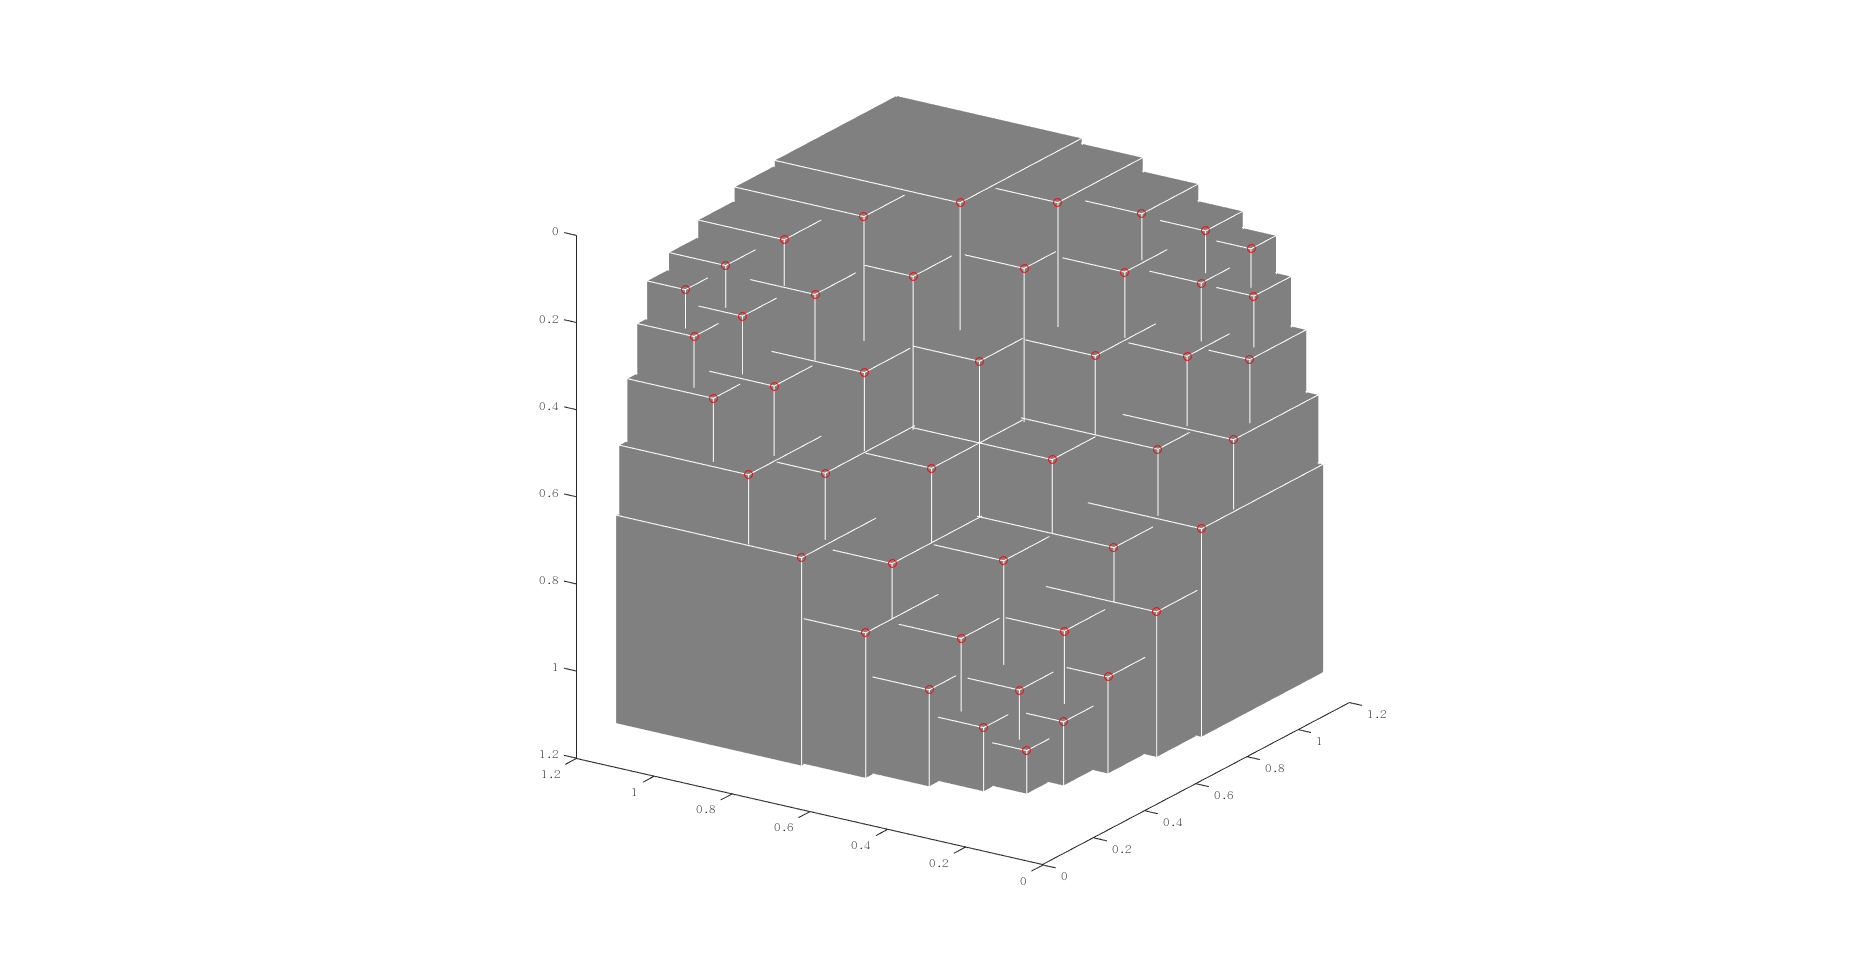
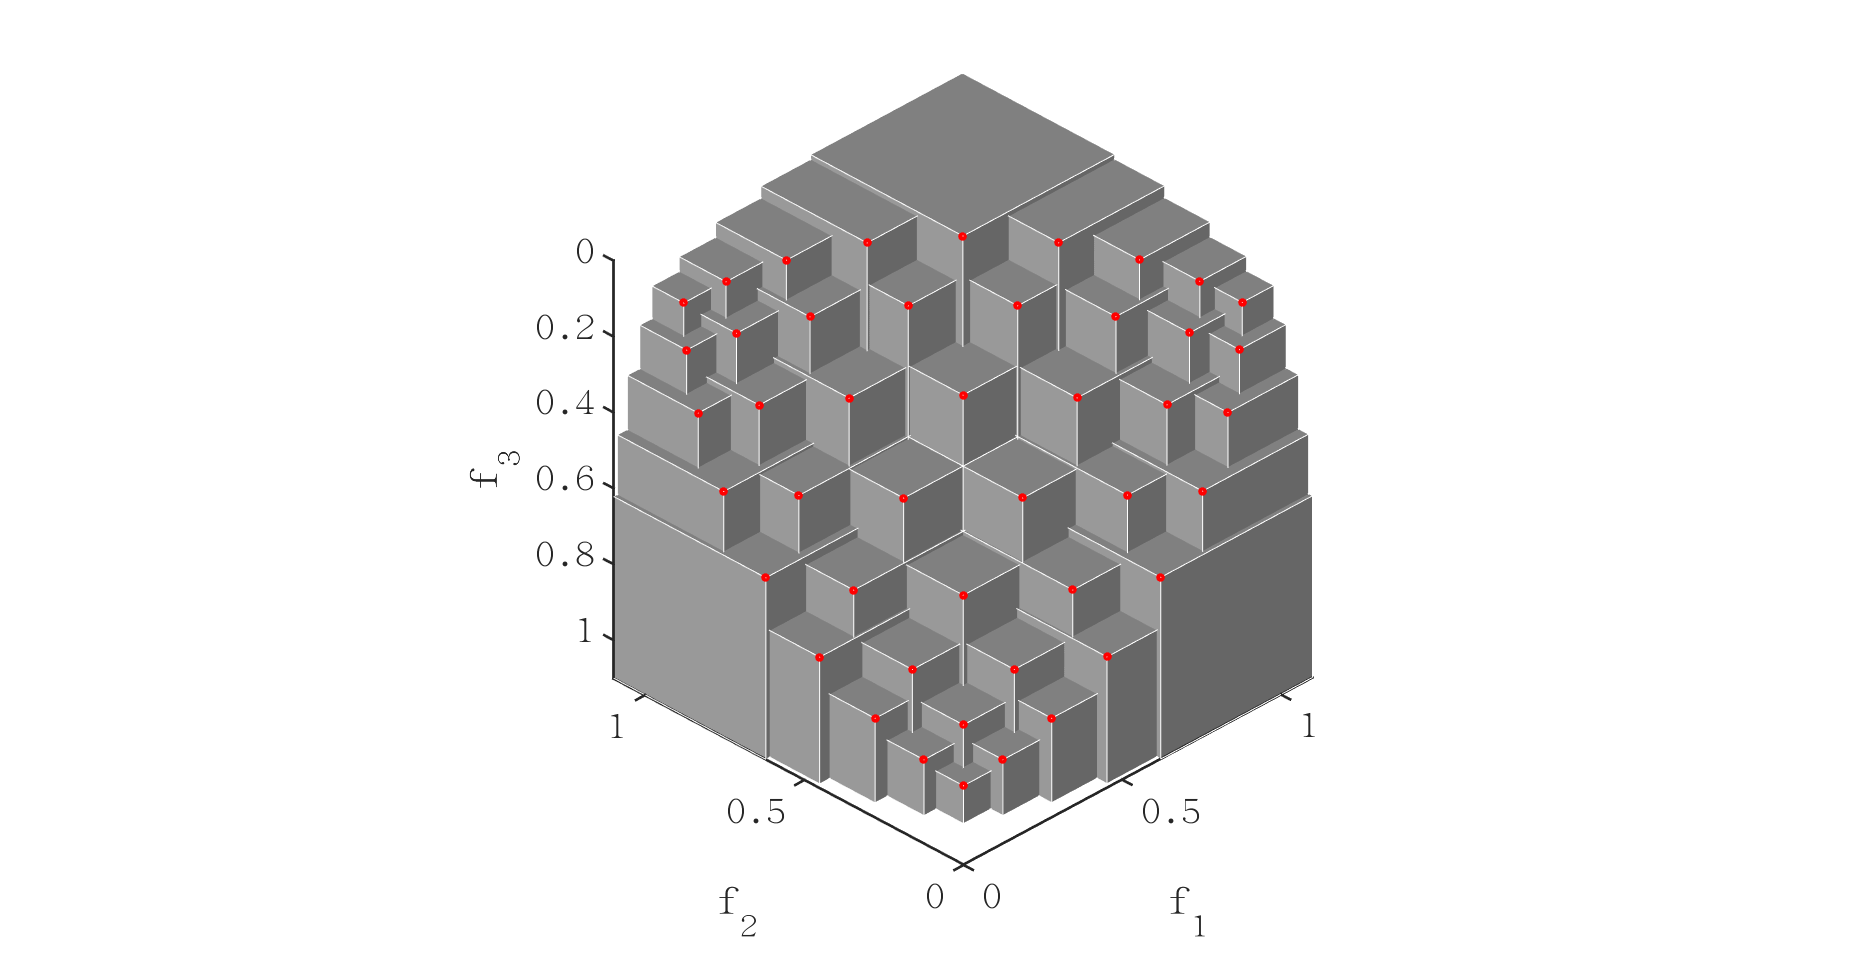
update

Changed region(s): [[0.2805, 0.0617, 0.7168, 0.8951], [0.2805, 0.3086, 0.3117, 0.3395]]

diff --git a/PlatEMO/drawCuboid_test.m b/PlatEMO/drawCuboid_test.m
@@ -9,8 +9,8 @@ maxValues = max(PF,[],1);
 minValues = min(PF,[],1); 
 PF = (PF - minValues) ./ (maxValues - minValues); 
 
-% a = (1 - sum(PF,2)) ./ 3;
-% PF = PF + 1 * a; 
+a = (1 - sum(PF,2)) ./ 3;
+PF = PF + 1 * a; 
 
 maxValues = max(PF,[],1); 
 minValues = min(PF,[],1); 
@@ -27,10 +27,15 @@ for index = 1:length(PF)
     drawCuboid(point,ref);
 end
 
-scatter3(PF(:,1),PF(:,2),PF(:,3),'ro')
+scatter3(PF(:,1),PF(:,2),PF(:,3),500,'r.')
 
 view(3)
 axis square
+xlabel('f_1', 'Fontname','Times New Roman', 'FontSize',12)
+ylabel('f_2', 'Fontname','Times New Roman', 'FontSize',12)
+zlabel('f_3', 'Fontname','Times New Roman', 'FontSize',12)
+
+set(gca, 'linewidth',2,'fontsize',30,'fontname','Times')
 set(gca,'xdir','reverse');
 set(gca,'ydir','reverse');
 set(gca,'zdir','reverse');
